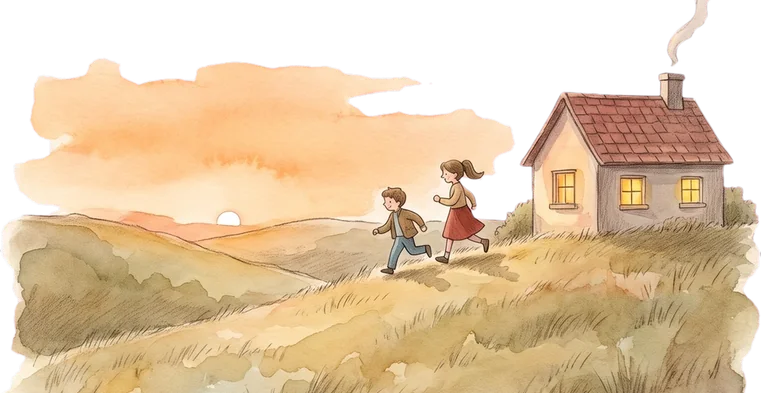
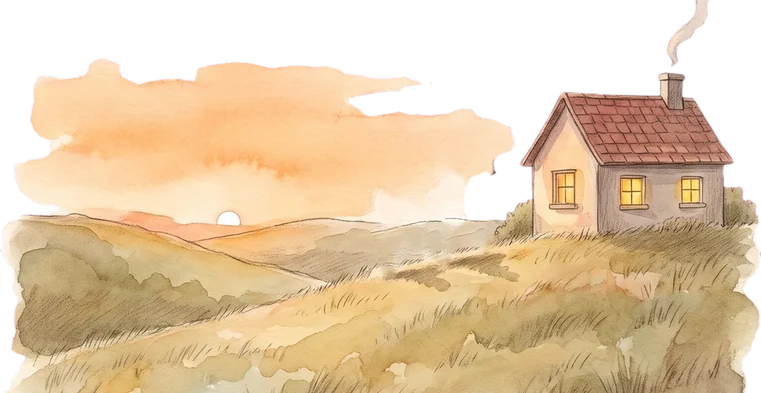
1122kankan: v=261118j
Claude-Session: https://claude.ai/code/session_01UXmRHpiqgU4qsYV4GdyD9f

Changed region(s): [[0.4836, 0.3969, 0.6649, 0.7023]]

diff --git a/1122kankan/index.html b/1122kankan/index.html
@@ -13,13 +13,13 @@
 <meta property="og:image" content="https://guah123.github.io/kk1122-filters/1122kankan/assets/key-visual-og.jpg">
 <meta property="og:type" content="website">
 <link rel="icon" href="data:,">
-<script src="config.js?v=261118i"></script>
-<link rel="stylesheet" href="css/base.css?v=261118i">
-<link rel="stylesheet" href="css/where.css?v=261118i">
-<link rel="stylesheet" href="css/camera.css?v=261118i">
-<link rel="stylesheet" href="css/suitcase.css?v=261118i">
-<link rel="stylesheet" href="css/quiz.css?v=261118i">
-<link rel="stylesheet" href="css/finale.css?v=261118i">
+<script src="config.js?v=261118j"></script>
+<link rel="stylesheet" href="css/base.css?v=261118j">
+<link rel="stylesheet" href="css/where.css?v=261118j">
+<link rel="stylesheet" href="css/camera.css?v=261118j">
+<link rel="stylesheet" href="css/suitcase.css?v=261118j">
+<link rel="stylesheet" href="css/quiz.css?v=261118j">
+<link rel="stylesheet" href="css/finale.css?v=261118j">
 </head>
 <body>
 <div id="app"></div>
@@ -29,37 +29,37 @@
   </div>
 </noscript>
 
-<script src="js/core/icons.js?v=261118i"></script>
-<script src="js/core/flow.js?v=261118i"></script>
-<script src="js/core/api.js?v=261118i"></script>
-<script src="js/core/filterstack.js?v=261118i"></script>
+<script src="js/core/icons.js?v=261118j"></script>
+<script src="js/core/flow.js?v=261118j"></script>
+<script src="js/core/api.js?v=261118j"></script>
+<script src="js/core/filterstack.js?v=261118j"></script>
 
-<script src="js/camera/camera.js?v=261118i"></script>
-<script src="js/camera/rain.js?v=261118i"></script>
-<script src="js/camera/fisheye.js?v=261118i"></script>
+<script src="js/camera/camera.js?v=261118j"></script>
+<script src="js/camera/rain.js?v=261118j"></script>
+<script src="js/camera/fisheye.js?v=261118j"></script>
 
-<script src="js/where/chars.js?v=261118i"></script>
-<script src="js/where/engine.js?v=261118i"></script>
-<script src="js/where/scenes/park.js?v=261118i"></script>
-<script src="js/where/scenes/escalator.js?v=261118i"></script>
-<script src="js/where/scenes/bridge.js?v=261118i"></script>
-<script src="js/where/scenes/bookstore.js?v=261118i"></script>
-<script src="js/where/scenes/office.js?v=261118i"></script>
-<script src="js/where/scenes/fireworks.js?v=261118i"></script>
-<script src="js/where/scenes/newyork.js?v=261118i"></script>
+<script src="js/where/chars.js?v=261118j"></script>
+<script src="js/where/engine.js?v=261118j"></script>
+<script src="js/where/scenes/park.js?v=261118j"></script>
+<script src="js/where/scenes/escalator.js?v=261118j"></script>
+<script src="js/where/scenes/bridge.js?v=261118j"></script>
+<script src="js/where/scenes/bookstore.js?v=261118j"></script>
+<script src="js/where/scenes/office.js?v=261118j"></script>
+<script src="js/where/scenes/fireworks.js?v=261118j"></script>
+<script src="js/where/scenes/newyork.js?v=261118j"></script>
 
-<script src="js/pages/landing.js?v=261118i"></script>
-<script src="js/pages/form.js?v=261118i"></script>
-<script src="js/pages/rules.js?v=261118i"></script>
-<script src="js/pages/lyrics.js?v=261118i"></script>
-<script src="js/pages/where.js?v=261118i"></script>
-<script src="js/pages/qa.js?v=261118i"></script>
-<script src="js/pages/suitcase.js?v=261118i"></script>
-<script src="js/pages/yesno.js?v=261118i"></script>
-<script src="js/pages/photo.js?v=261118i"></script>
-<script src="js/pages/credits.js?v=261118i"></script>
-<script src="js/pages/egg.js?v=261118i"></script>
+<script src="js/pages/landing.js?v=261118j"></script>
+<script src="js/pages/form.js?v=261118j"></script>
+<script src="js/pages/rules.js?v=261118j"></script>
+<script src="js/pages/lyrics.js?v=261118j"></script>
+<script src="js/pages/where.js?v=261118j"></script>
+<script src="js/pages/qa.js?v=261118j"></script>
+<script src="js/pages/suitcase.js?v=261118j"></script>
+<script src="js/pages/yesno.js?v=261118j"></script>
+<script src="js/pages/photo.js?v=261118j"></script>
+<script src="js/pages/credits.js?v=261118j"></script>
+<script src="js/pages/egg.js?v=261118j"></script>
 
-<script src="js/core/app.js?v=261118i"></script>
+<script src="js/core/app.js?v=261118j"></script>
 </body>
 </html>

diff --git a/1122kankan/test/filters.js b/1122kankan/test/filters.js
@@ -1,7 +1,7 @@
 // 濾鏡截圖＋互動驗證：node test/filters.js [fake-cam.mjpeg]
 //   → ../verify/y/*.png（16-rain*、sun*、cam-nonumber）（390×844、deviceScaleFactor 2、?test=1）
 //   檢查：console／page error、assets/filters/* 回應 200、〈太陽〉左下抹開後露出底部石板地（r8 方案 B；原本是散步兩人）、
-//         〈下雨〉點雲下一陣小雨（r8 方案 C）、〈太空人〉點一下放天燈（r8 方案 D）截圖、
+//         〈下雨〉點雲下一陣小雨（r8 方案 C）、〈太空人〉點一下不再放東西（r9 拿掉紙燈：像素比對點擊前後同一時刻）＋劃一下放流星截圖、
 //         「重新佈滿烏雲」用真實觸控點擊（touchscreen.tap 走 hit-test）＋像素取樣確認烏雲回來。
 const { chromium } = require('playwright'); const { spawn } = require('child_process'); const path = require('path'); const fs = require('fs');
 const CAM = process.argv[2]; const OUT = path.join(__dirname, '..', '..', 'verify', 'y'); fs.mkdirSync(OUT, { recursive: true });
@@ -46,8 +46,19 @@ const diff = (a, b) => Math.round(Math.abs(a[0] - b[0]) + Math.abs(a[1] - b[1]) 
       await sleep(3500); await shot(p, '16-rain-3');
     } else if (id === 'helmet') {
       await sleep(1500); await shot(p, 'cam-nonumber');
-      const R = await box(p); for (const [fx, fy] of [[0.5, 0.6], [0.3, 0.4]]) { await p.touchscreen.tap(R.x + R.w * fx, R.y + R.h * fy); await sleep(500); }
-      await sleep(800); await shot(p, 'helmet-lamps');   // r8：點一下放天燈飛向月亮
+      // r9：點一下 → 什麼都不會出現（紙燈互動已拿掉）：凍結舞台，在同一個 loop 時間比對點擊前後的畫面
+      const R = await box(p);
+      const frame = () => p.evaluate(() => { const s = window.__stage; s.renderAt(3.3, s.S.now); const d = document.querySelector('.cam-canvas').getContext('2d').getImageData(0, 0, 720, 1280).data; let h = 0; for (let i = 0; i < d.length; i += 97) h = (h * 31 + d[i]) >>> 0; return h; });
+      await p.evaluate(() => { const o = KK.Stage.prototype.renderAt; KK.Stage.prototype.renderAt = function (t, n) { window.__stage = this; return o.call(this, t, n); }; }); await sleep(200);
+      await p.evaluate(() => window.__stage.stop());
+      const h0 = await frame();
+      for (const [fx, fy] of [[0.5, 0.6], [0.3, 0.4]]) { await p.touchscreen.tap(R.x + R.w * fx, R.y + R.h * fy); await sleep(300); }
+      await p.evaluate(() => { window.__stage.S.now += 1; });
+      const h1 = await frame();
+      report.push('helmet tap: ' + (h0 === h1 ? 'nothing spawned (frame identical)' : 'FRAME CHANGED after tap'));
+      await p.evaluate(() => window.__stage.start());
+      await p.mouse.move(R.x + R.w * 0.8, R.y + R.h * 0.2); await p.mouse.down(); await p.mouse.move(R.x + R.w * 0.35, R.y + R.h * 0.35, { steps: 6 }); await p.mouse.up();
+      await sleep(450); await shot(p, 'helmet-meteor');   // 劃一下放一顆流星
     }
     else await sleep(1500);
     report.push(id + ' ok'); await p.close();

diff --git a/1122kankan/js/pages/lyrics.js b/1122kankan/js/pages/lyrics.js
@@ -19,7 +19,7 @@ DAYOF.registerPage = DAYOF.registerPage || function (t, m) { DAYOF._pages[t] = m
     /* v=261116aa (Kai): outro — tapping 繼續看看 fades every UI layer + the veil, holds the bare illustration ~3s, then moves on */
     /* v=261118f (Kai): no fades — tapping 繼續看看 removes every UI layer at once (bare illustration) and puts ONE emoji
        button tied to the song in the same spot; tapping it goes on */
-    /* v=261118i (Kai): 繼續看看 swaps the UI for the emoji button at once (no fade); only tapping the emoji fades the page out */
+    /* v=261118j (Kai): 繼續看看 swaps the UI for the emoji button at once (no fade); only tapping the emoji fades the page out */
     '#app > .page.page-lyrics.lyr-leave{opacity:0;transition:opacity .5s ease}',
     '.page-lyrics.lyr-outro > :not(.lyr-go){opacity:0 !important;pointer-events:none !important}',
     '.page-lyrics.lyr-outro .filter-stack *{pointer-events:none !important}',
@@ -171,7 +171,7 @@ DAYOF.registerPage = DAYOF.registerPage || function (t, m) { DAYOF._pages[t] = m
       // v=261116aa: picture-book background per lyrics step (x = horizontal focus so the subject survives the phone crop)
       // v=261118f (Kai): emoji for the post-lyrics button, one per song
       var SONG_EMOJI = { 4: '🫥', 6: '🕊', 8: '🍲', 10: '🧑🚀', 12: '🧳', 14: '⛰', 16: '🌧', 18: '🌳', 20: '🌼', 22: '🌸', 24: '👔', 26: '🌤', 28: '🗽', 30: '🌙', 32: '🌇' };
-      var BG_X = { 4: 50, 20: 55, 24: 62, 26: 34, 28: 58 };   // 20: dandelion hillside (v=261118i)
+      var BG_X = { 4: 50, 20: 55, 24: 62, 26: 34, 28: 58 };   // 20: dandelion hillside (v=261118j)
       if (n >= 4 && n <= 32 && n % 2 === 0) {
         var nn = (n < 10 ? '0' : '') + n;
         container.classList.add('has-bg');
@@ -214,7 +214,7 @@ DAYOF.registerPage = DAYOF.registerPage || function (t, m) { DAYOF._pages[t] = m
         var r = btn.getBoundingClientRect(), cr = container.getBoundingClientRect();
         var goBtn = document.createElement('button'); goBtn.type = 'button'; goBtn.className = 'lyr-go';
         goBtn.textContent = SONG_EMOJI[n] || '👀'; goBtn.setAttribute('aria-label', '繼續看看');
-        // v=261118i (Kai): the emoji button always sits top-right
+        // v=261118j (Kai): the emoji button always sits top-right
         goBtn.style.left = Math.round(cr.width - 34) + 'px'; goBtn.style.top = 'calc(env(safe-area-inset-top, 0px) + 34px)';   // same row + inset as the back button
         container.classList.add('lyr-outro'); container.appendChild(goBtn);
         // v=261118l (Kai): the emoji button OR a tap anywhere on the bare illustration goes on (back button excluded)

diff --git a/1122kankan/js/camera/camera.js b/1122kankan/js/camera/camera.js
@@ -63,7 +63,7 @@
     // r8（Kai 選定：太陽 B、太空人 D、下雨 C、家 A）：每個濾鏡 1–2 張去背 WebP，擺位見 KK.placeArt
     'otona-moon.webp', 'otona-boy.webp',
     'hareru-clouds.jpg', 'hareru-wipe-brush.png', 'hareru-b-sun.webp', 'hareru-b-ground.webp',
-    'remember-a-hill.webp',
+    'remember-a-hill.webp', 'remember-a-girl.webp', 'remember-a-boy.webp',   // r9: kids cut out of the hill → animated in f2-remember.js
     'rain-c-clouds.webp', 'rain-c-bike.webp',
     'rain-drop-1.png', 'rain-drop-2.png', 'rain-drop-3.png', 'rain-drop-4.png', 'rain-mist.png',
     'rain-ripple.png', 'rain-splash.png',
@@ -94,7 +94,7 @@
         .then(function (m) {
           var list = m ? (Array.isArray(m) ? m : (m.files || [])) : ART_FILES;
           list = list.filter(function (n) { return ART_FILES.indexOf(n) >= 0; });
-          return Promise.all(list.map(function (n) { return loadImg(base + n + '?v=261118i').then(function (im) { if (im) artImgs[n] = im; }); }));
+          return Promise.all(list.map(function (n) { return loadImg(base + n + '?v=261118j').then(function (im) { if (im) artImgs[n] = im; }); }));
         });
       artPromise = Promise.race([all, new Promise(function (r) { setTimeout(r, 3000); })]);
       return artPromise;
@@ -234,7 +234,7 @@
       if (window.KK && KK.Stage && KK.Recorder) { ok(); return; }
       if (window.KKReady) { window.KKReady(ok); return; }
       var s = document.createElement('script');
-      s.src = ROOT + 'vendor/kk/kk-load.js?v=261118i';   // version tag: phones must not keep an old filter engine
+      s.src = ROOT + 'vendor/kk/kk-load.js?v=261118j';   // version tag: phones must not keep an old filter engine
       s.onload = function () { window.KKReady(ok); };
       s.onerror = function () { kkPromise = null; s.remove(); reject(Object.assign(new Error('無法載入 ' + s.src), { name: 'LoadError' })); };
       document.head.appendChild(s);

diff --git a/1122kankan/js/pages/egg.js b/1122kankan/js/pages/egg.js
@@ -155,7 +155,7 @@ DAYOF.registerPage = DAYOF.registerPage || function (t, m) { DAYOF._pages[t] = m
     });
     rsBox.appendChild(rsBtn); rsBox.appendChild(el('div', 'eg-bubble', '從頭開始'));   // v=261118e (Kai): bubble like 密碼
 
-    // v=261118i (Kai): one button to save every illustration of the evening (cover, lyrics pages, question pages, find-Kai scenes).
+    // v=261118j (Kai): one button to save every illustration of the evening (cover, lyrics pages, question pages, find-Kai scenes).
     // Phones: Web Share with files → the system sheet offers 「儲存 N 張影像」 (needs a fresh tap, so the files are fetched
     // first and the tap that finds them ready shares at once). No file-share support → one zip download (store-only, built here).
     var SVG_DL = '<svg viewBox="0 0 48 48" fill="none" stroke="currentColor" stroke-width="2.6" stroke-linecap="round" stroke-linejoin="round"><path d="M24 9v20"/><path d="M15 21l9 9 9-9"/><path d="M10 37h28"/></svg>';

diff --git a/1122kankan/js/pages/suitcase.js b/1122kankan/js/pages/suitcase.js
@@ -64,7 +64,7 @@ DAYOF.registerPage = DAYOF.registerPage || function (t, m) { DAYOF._pages[t] = m
   // v=261118d (Kai): painted suitcase = Veo clip keyed into a sprite sheet (frame 0 open … last closed). Slots are
   // fractions of that picture, on the open case's inner floor (back row first, front row last → front overlaps back).
   var SLOTS = [[.258, .533], [.378, .563], [.498, .593], [.618, .623], [.738, .653], [.195, .605], [.315, .635], [.435, .665], [.555, .695], [.675, .725]];
-  var SHEET = { src: 'assets/suitcase/case-sheet.webp?v=261118i', n: 39, cols: 8, rows: 5, land: 25 };
+  var SHEET = { src: 'assets/suitcase/case-sheet.webp?v=261118j', n: 39, cols: 8, rows: 5, land: 25 };
   function sheetPos(k) { var c = k % SHEET.cols, r = Math.floor(k / SHEET.cols); return (c / (SHEET.cols - 1) * 100).toFixed(3) + '% ' + (r / (SHEET.rows - 1) * 100).toFixed(3) + '%'; }
   var ROT = [-7, 4, -3, 8, -5, 5, -8, 3, 7, -4];
 

diff --git a/1122kankan/js/camera/rain.js b/1122kankan/js/camera/rain.js
@@ -50,6 +50,8 @@
       mood: '毛毛雨・起霧的窗・慢慢看清楚',
       duration: 12,
       hint: '點點上面的雲，下一陣小雨',
+      // r9 相機調色（只作用在相機畫面）：saturation 灰 → 彩度降約 18%；soft-light 灰藍 → 微涼、雨天的灰藍
+      grade: [{ op: 'saturation', c: '#808080', a: 0.18 }, { op: 'soft-light', c: '#6F86A6', a: 0.3 }],
       critterHint: '左下角水窪裡，媽媽騎單車載著小孩（人類），車頭一盞小燈',
       create: function () {
         var st = { C: null, cg: null, fog: null, rain: null, bead: null, beads: [], fingers: {}, taps: [], showers: [], cloudBase: 0, tapLimit: 0, key: '' };

diff --git a/1122kankan/css/suitcase.css b/1122kankan/css/suitcase.css
@@ -148,7 +148,7 @@
 .sc-case .shadow { bottom: 1%; left: 6%; right: 14%; }
 
 /* v=261118e (Kai): painted wooden floor (Gemini, from layout ref2) as the page background; wall stars / horizon removed */
-.page-suitcase { background: #E9CFA3 url("../assets/suitcase/floor.jpg?v=261118i") center / cover no-repeat; }
+.page-suitcase { background: #E9CFA3 url("../assets/suitcase/floor.jpg?v=261118j") center / cover no-repeat; }
 .page-suitcase::after { display: none; }
 .page-suitcase::before { opacity: .18; }
 .page-suitcase .sc-title, .page-suitcase .sc-hint, .page-suitcase .sc-msg { text-shadow: 0 0 8px rgba(251,247,239,.95), 0 0 3px rgba(251,247,239,.95); }

diff --git a/1122kankan/css/finale.css b/1122kankan/css/finale.css
@@ -238,7 +238,7 @@
 /* v=261118g (Kai): short normal fades */
 .page-egg { animation: eg-in .3s ease both; }
 .cr-under { position: absolute; inset: 0; z-index: 1; background: center / cover no-repeat; pointer-events: none; }
-/* v=261118i download-all-pictures button (above 從頭開始) */
+/* v=261118j download-all-pictures button (above 從頭開始) */
 .eg-dl button.eg-bigbtn { background: #C9A27A; }
 .page-egg .eg-dl .eg-bubble { border-color: #C9A27A; }
 .page-egg .eg-dl .eg-bubble::after { border-color: #C9A27A; }

diff --git a/1122kankan/admin.html b/1122kankan/admin.html
@@ -6,8 +6,8 @@
 <meta name="robots" content="noindex,nofollow">
 <meta name="referrer" content="no-referrer">
 <title>看看 後台</title>
-<link rel="stylesheet" href="css/base.css?v=261118i">
-<script src="config.js?v=261118i"></script>
+<link rel="stylesheet" href="css/base.css?v=261118j">
+<script src="config.js?v=261118j"></script>
 <style>
   :root{--fresh:#FFF1C9}
   html,body{height:auto;min-height:100%}
